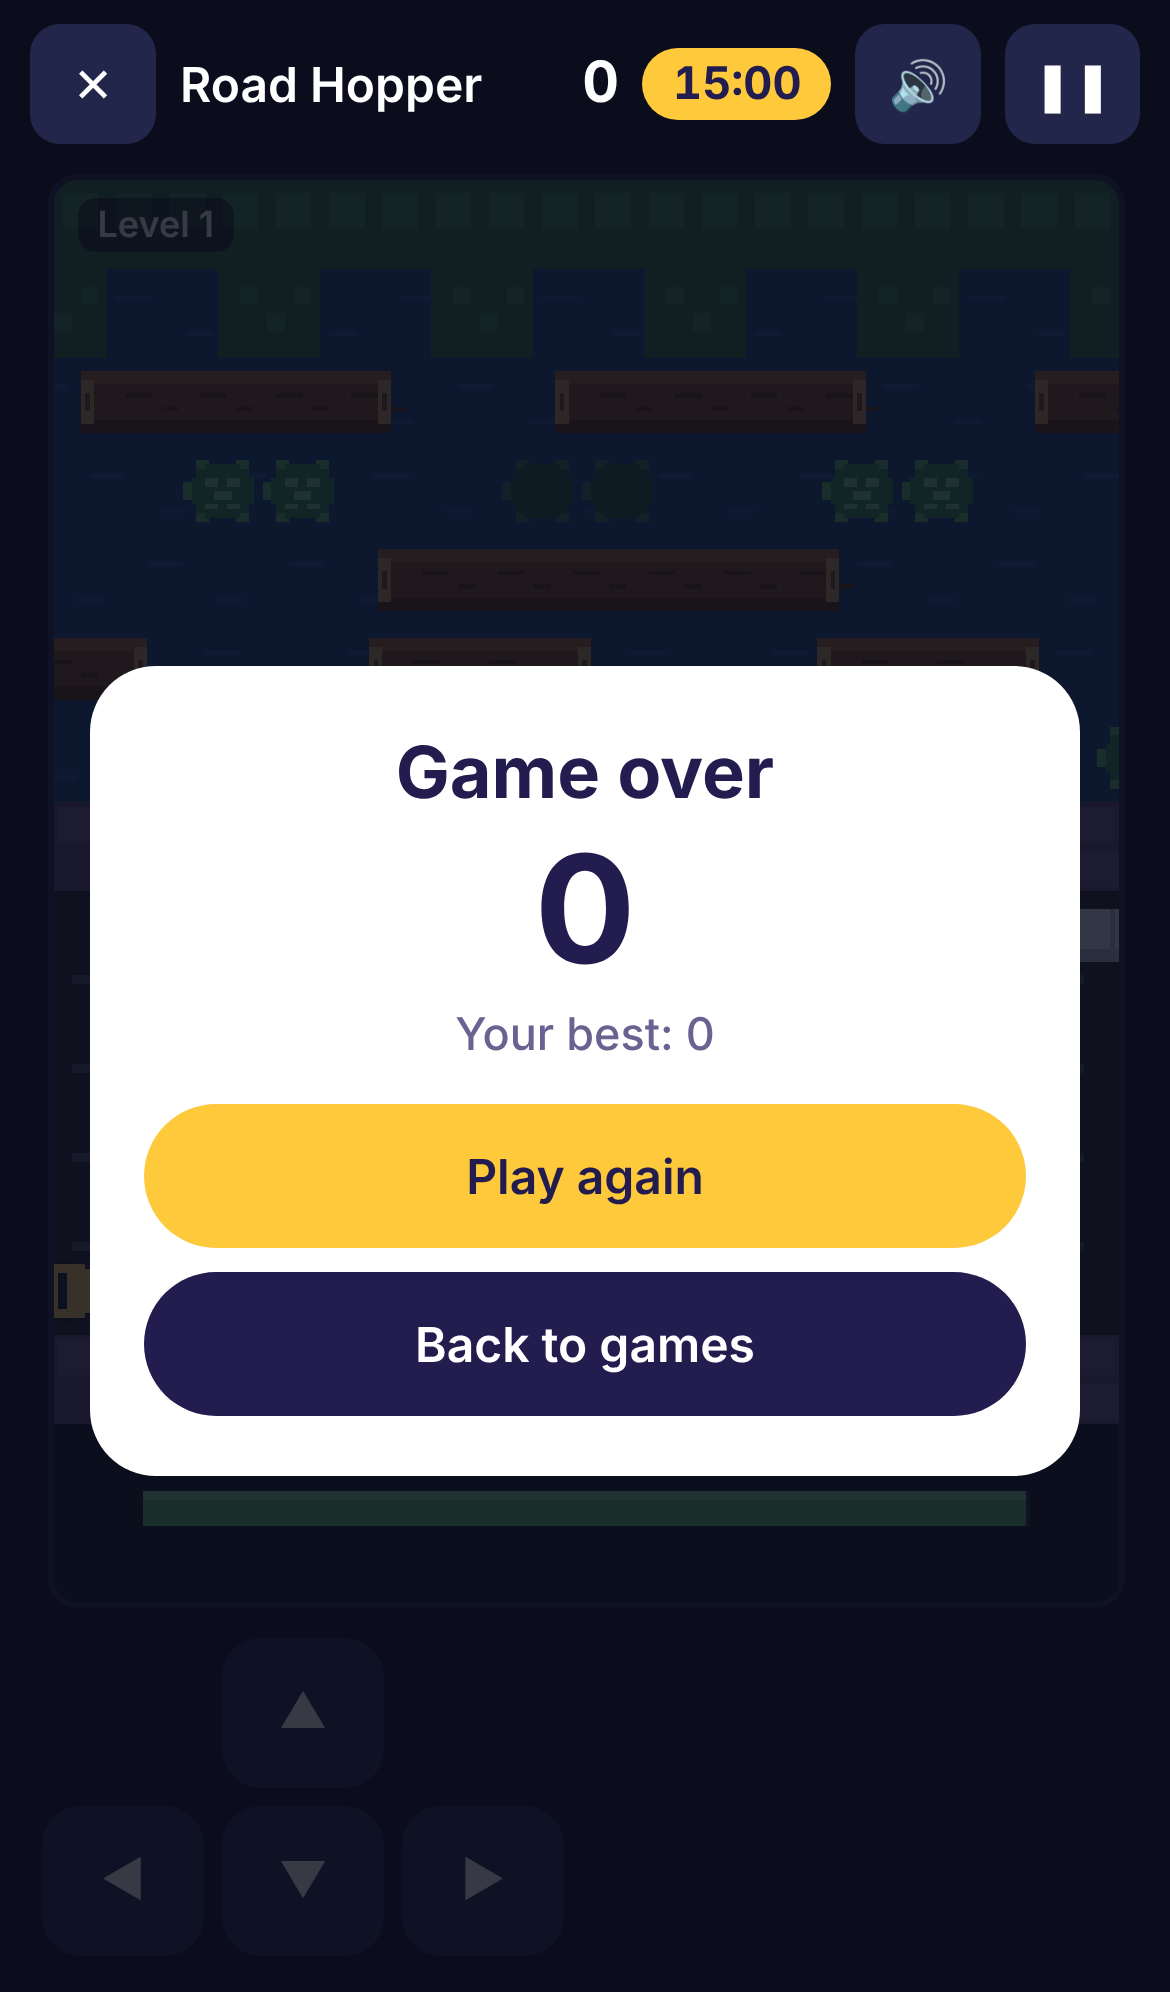
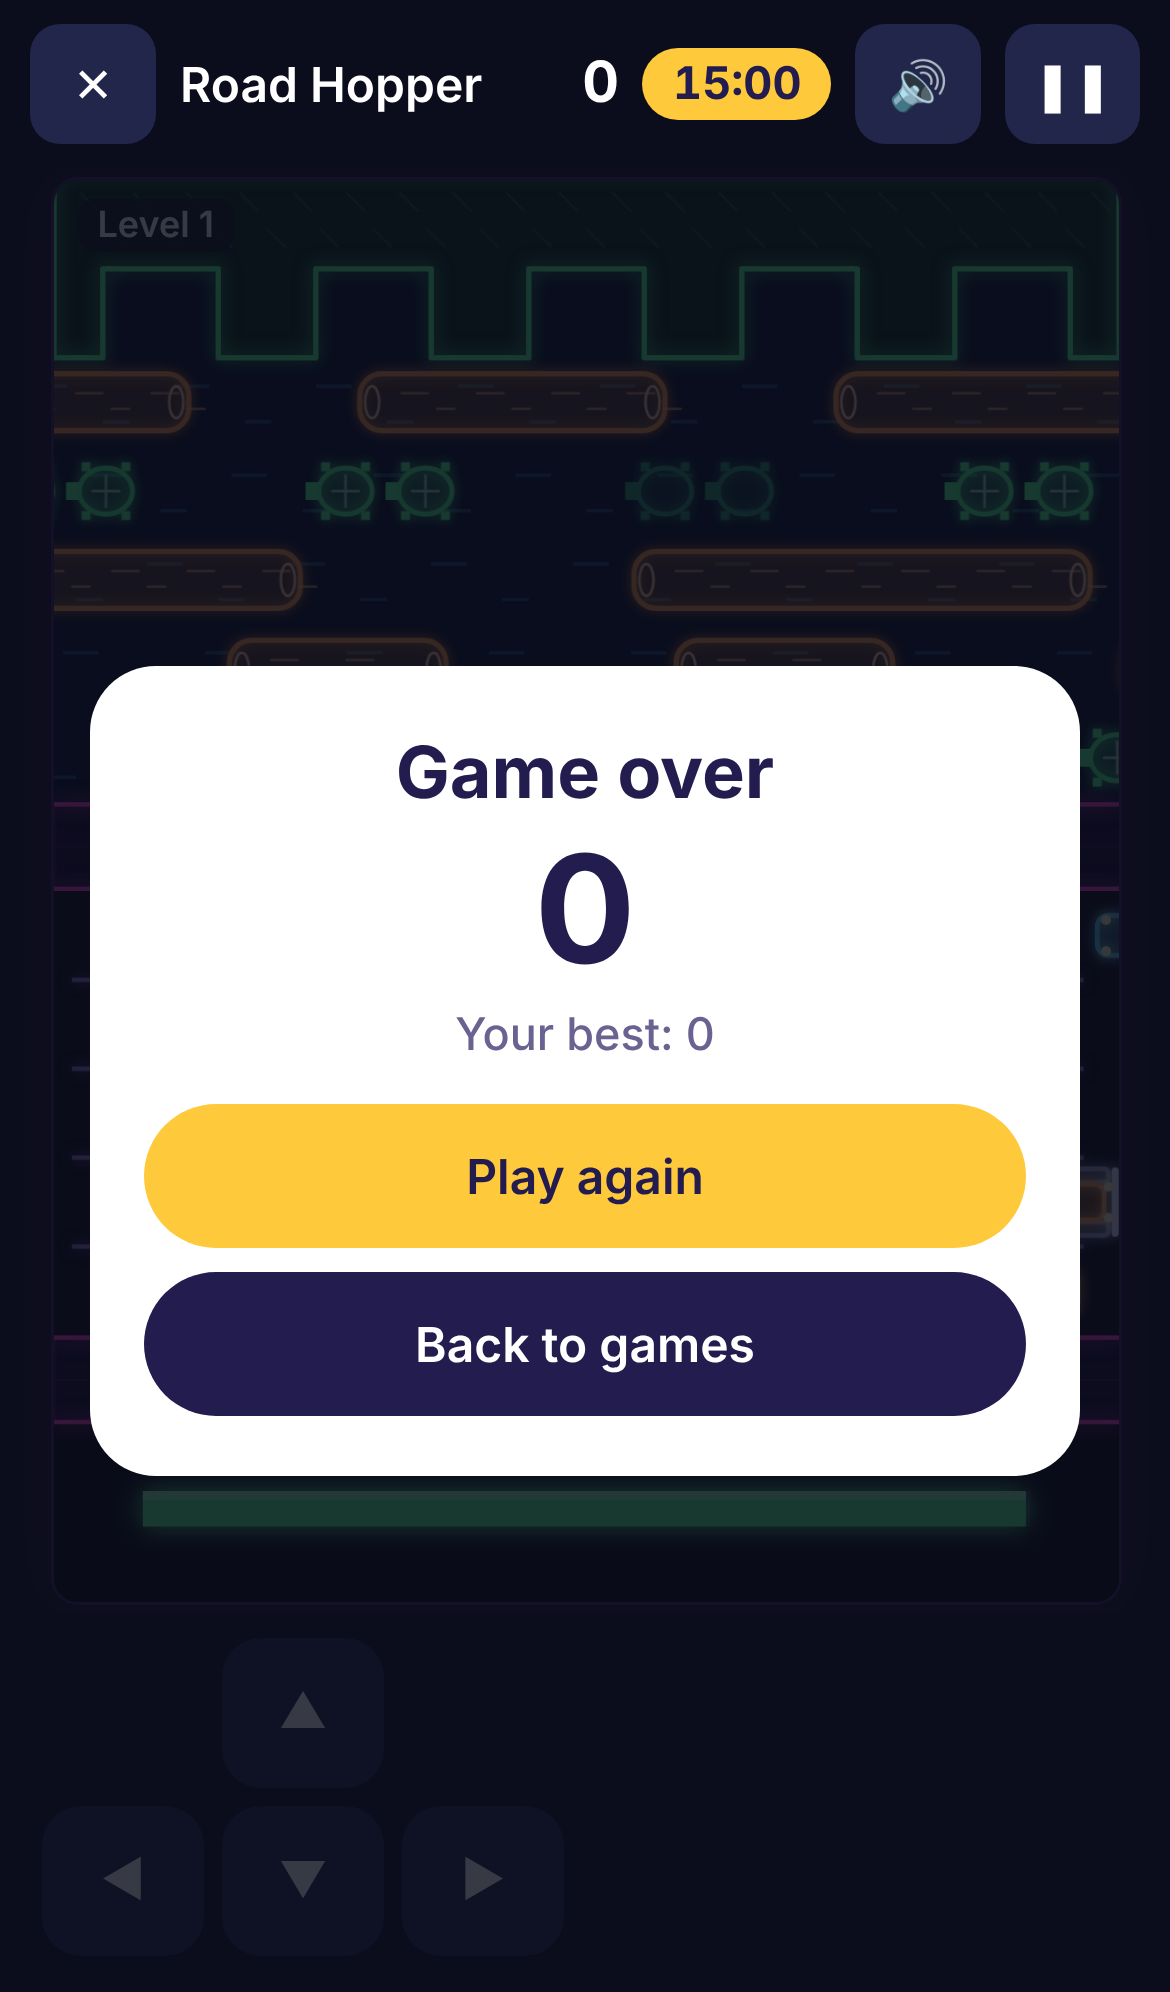
v1.41: parent Stats tab (week, month, all time, 8-week chart, top activities)
Claude-Session: https://claude.ai/code/session_01JoNf9xmUoD18WqnoTrPJoo

diff --git a/index.html b/index.html
@@ -132,6 +132,15 @@ button.row:active{background:var(--press)}
 .stats b{display:block;font-size:28px;font-weight:700;line-height:1.1}
 .stats span{font-size:14px;color:var(--soft)}
 .stats .plus{color:var(--plus)} .stats .minus{color:var(--minus)}
+.wkchart{display:grid;grid-template-columns:repeat(8,minmax(0,1fr));gap:6px;height:120px;margin:4px 0 6px}
+.wkchart .wk{display:flex;flex-direction:column;min-width:0}
+.wkchart .bars{flex:1;display:flex;align-items:flex-end;justify-content:center;gap:2px;border-bottom:1px solid var(--line)}
+.wkchart i,.legend i{display:inline-block;width:42%;max-width:14px;min-height:1px;border-radius:2px 2px 0 0}
+.wkchart .e,.legend .e{background:var(--plus)} .wkchart .l,.legend .l{background:var(--minus)}
+.wkchart span{font-size:11px;color:var(--soft);text-align:center;margin-top:3px;white-space:nowrap}
+.legend i{width:10px;height:10px;border-radius:2px;margin:0 4px 0 10px;vertical-align:-1px}
+.legend i:first-child{margin-left:0}
+.tabs + .stats,.tabs + p + .stats{margin-top:10px}
 .half{display:grid;grid-template-columns:1fr 1fr;gap:10px}
 #pop{position:fixed;inset:0;background:rgba(35,28,79,.62);display:none;align-items:center;justify-content:center;z-index:20;padding:20px;overflow:hidden}
 #pop.open{display:flex}
@@ -331,7 +340,7 @@ const FIREBASE_CONFIG = {
   appId: "1:271302574571:web:3eeb4d2949fb5a4b3819ae"
 };
 
-const VERSION = '1.40';   // bump on every change so Check for update can see it
+const VERSION = '1.41';   // bump on every change so Check for update can see it
 
 const KIDS = { emmie:{name:'Emmie',emoji:'🎨'}, dawson:{name:'Dawson',emoji:'⚾'} };
 const PARENTS = { mom:{name:'Mom',emoji:'👩'}, dad:{name:'Dad',emoji:'👨'} };
@@ -363,6 +372,7 @@ async function firebaseStore(cfg){
     subLog(kid,cb,err){ fs.onSnapshot(fs.query(logCol(kid), fs.orderBy('ts','desc'), fs.limit(300)), s => cb(s.docs.map(d => ({id:d.id, ...d.data()}))), err); },
     subGames(kid,cb){ fs.onSnapshot(fs.query(fs.collection(db,'family','main','games_'+kid), fs.orderBy('ts','desc'), fs.limit(60)), s => cb(s.docs.map(d => ({id:d.id, ...d.data()}))), () => {}); },
     addGame(kid, entry){ return fs.addDoc(fs.collection(db,'family','main','games_'+kid), entry); },
+    async allLog(kid){ const s = await fs.getDocs(fs.query(logCol(kid), fs.orderBy('ts','desc'))); return s.docs.map(d => ({id:d.id, ...d.data()})); },
     seed(obj){ return fs.setDoc(mainRef, obj, {merge:true}); },
     apply({set,addLog,delLog}){
       const b = fs.writeBatch(db);
@@ -388,6 +398,7 @@ function localStore(){
     subLog(kid,cb){ subs[kid].push(cb); cb([...data.logs[kid]].sort((a,b)=>b.ts-a.ts)); },
     subGames(kid,cb){ (subs['g_'+kid] = subs['g_'+kid] || []).push(cb); cb([...data.games[kid]].sort((a,b)=>b.ts-a.ts).slice(0,60)); },
     async addGame(kid, entry){ data.games[kid].push({id:uid(), ...entry}); save(); (subs['g_'+kid]||[]).forEach(f => f([...data.games[kid]].sort((a,b)=>b.ts-a.ts).slice(0,60))); },
+    async allLog(kid){ return [...data.logs[kid]].sort((a,b)=>b.ts-a.ts); },
     async seed(obj){ data.main = Object.assign(data.main||{}, obj); save(); emit(); },
     async apply({set,addLog,delLog}){
       if(set) for(const path in set){
@@ -408,7 +419,7 @@ function localStore(){
 /* ---------- state ---------- */
 let store, main = null, loaded = false, loadError = '';
 const logs = {emmie:[], dawson:[]}, gamesLog = {emmie:[], dawson:[]};
-const ui = {mode:'up', kid:null, ptab:'give', ktab:'prizes', setup:false, games:false, viewAs:null};
+const ui = {srange:'week', mode:'up', kid:null, ptab:'give', ktab:'prizes', setup:false, games:false, viewAs:null};
 const lastBal = {};
 const ls = { get(k){ try{ return localStorage.getItem(k); }catch(e){ return null; } }, set(k,v){ try{ v==null ? localStorage.removeItem(k) : localStorage.setItem(k,v); }catch(e){} } };
 const role = () => ls.get('ep_role');
@@ -947,6 +958,65 @@ function kidView(kid){
     <div class="foot"><button class="link" data-act="switch">Not ${KIDS[kid].name}?</button></div></div>`;
 }
 
+/* ---------- parent stats ----------
+   The live list holds the newest 300 entries; for longer ranges the full history is fetched once and the
+   live list is laid over it, so new and removed entries show right away. */
+const fullLog = {}, fullBusy = {};
+function statRows(kid){
+  const live = logs[kid], full = fullLog[kid];
+  if(!full) return live;
+  const oldest = live.length ? live[live.length-1].ts : Infinity;
+  return live.concat(full.filter(e => e.ts < oldest));
+}
+function needFull(kid){
+  if(fullLog[kid] || fullBusy[kid] || logs[kid].length < 300) return;
+  fullBusy[kid] = true;
+  store.allLog(kid).then(r => { fullLog[kid] = r; render(); }).catch(() => {}).finally(() => { fullBusy[kid] = false; });
+}
+const isCash = e => e.type==='prize' && /^\$\d+ cash-out$/.test(e.label||'');
+function monthStart(off){ const d = new Date(); return new Date(d.getFullYear(), d.getMonth()-off, 1).getTime(); }
+function rangeStats(rows, a, z){
+  const s = {earned:0, lost:0, spent:0, prizes:0, cash:0, cashN:0, bonus:0, gsec:0, up:{}, down:{}, days:new Set(), first:Infinity};
+  for(const e of rows){
+    if(e.ts < a || e.ts >= z) continue;
+    s.first = Math.min(s.first, e.ts);
+    if(e.gsec) s.gsec += e.gsec;
+    if(e.type==='prize'){ if(isCash(e)){ s.cash += +e.label.slice(1).split(' ')[0]; s.cashN++; } else s.prizes++; s.spent -= e.pts; continue; }
+    if(e.type==='bonus') s.bonus += e.pts;
+    if(e.pts > 0){ s.earned += e.pts; s.days.add(dayKey(e.ts)); }
+    else if(e.pts < 0) s.lost -= e.pts;
+    if(e.type==='points' && e.pts){ const m = e.pts>0 ? s.up : s.down, t = m[e.label] = m[e.label] || {label:e.label, emoji:e.emoji, n:0, pts:0}; t.n++; t.pts += e.pts; }
+  }
+  const top = m => Object.values(m).sort((x,y) => Math.abs(y.pts)-Math.abs(x.pts) || y.n-x.n);
+  s.up = top(s.up); s.down = top(s.down);
+  return s;
+}
+function statsView(kid){
+  needFull(kid);
+  const rows = statRows(kid), r = ui.srange, now = Date.now();
+  const [a, z, pa, pz, prevName] = r==='week' ? [weekStart(0), Infinity, weekStart(1), weekStart(0), 'last week']
+    : r==='month' ? [monthStart(0), Infinity, monthStart(1), monthStart(0), 'last month'] : [0, Infinity, 0, 0, ''];
+  const s = rangeStats(rows, a, z), p = r==='all' ? null : rangeStats(rows, pa, pz);
+  const net = s.earned - s.lost, g = main.goals && main.goals[kid] && main.rewards && main.rewards[main.goals[kid]];
+  const days = r==='all' ? (rows.length ? Math.max(1, Math.ceil((now - Math.min(...rows.map(e => e.ts)))/864e5)) : 0) : Math.max(1, Math.ceil((now - a)/864e5));
+  const loading = r==='all' && !fullLog[kid] && logs[kid].length >= 300;
+  /* last 8 weeks, earned vs lost */
+  const wk = []; for(let i=7;i>=0;i--){ const w = rangeStats(rows, weekStart(i), i ? weekStart(i-1) : Infinity); wk.push({e:w.earned, l:w.lost, d:new Date(weekStart(i))}); }
+  const mx = Math.max(1, ...wk.map(w => Math.max(w.e, w.l)));
+  const bars = wk.map((w,i) => `<div class="wk"><div class="bars"><i class="e" style="height:${Math.round(w.e/mx*100)}%"></i><i class="l" style="height:${Math.round(w.l/mx*100)}%"></i></div><span>${i===7 ? 'Now' : (w.d.getMonth()+1)+'/'+w.d.getDate()}</span></div>`).join('');
+  const list = (arr, none) => arr.length ? `<div class="list">${arr.slice(0,5).map(t => `<div class="row"><span class="emo">${esc(t.emoji||'')}</span><div class="grow"><div class="label">${esc(t.label)}</div><div class="sub">${t.n} ${t.n===1?'time':'times'}</div></div><span class="pts ${cls(t.pts)}">${signed(t.pts)}</span></div>`).join('')}</div>` : `<div class="empty">${none}</div>`;
+  const since = r==='week' ? 'Since Sunday' : r==='month' ? 'Since the 1st' : (rows.length ? 'Since '+new Date(Math.min(...rows.map(e => e.ts))).toLocaleDateString([], {month:'short', day:'numeric', year:'numeric'}) : 'No history yet');
+  return `<h2>${KIDS[kid].name}’s stats</h2>
+    ${tabs('srange', [['week','This week'],['month','This month'],['all','All time']])}
+    ${loading ? '<p class="soft">Loading full history…</p>' : ''}
+    <div class="stats"><div><b class="plus">${signed(s.earned)}</b><span>earned</span></div><div><b class="minus">${signed(-s.lost)}</b><span>lost</span></div><div><b class="${net>0?'plus':net<0?'minus':''}">${signed(net)}</b><span>net</span></div></div>
+    <div class="stats"><div><b>${s.spent}</b><span>spent on prizes</span></div><div><b>$${s.cash}</b><span>cashed out</span></div><div><b>${bal(kid)}</b><span>balance now</span></div></div>
+    <p class="soft">${since}. ${s.prizes} ${s.prizes===1?'prize':'prizes'}${s.cashN ? `, ${s.cashN} cash-${s.cashN===1?'out':'outs'}` : ''}. Earned points on ${s.days.size} of ${days} ${days===1?'day':'days'}${s.bonus ? `, ${signed(s.bonus)} from streak bonuses` : ''}${s.gsec>0 ? `, ${fmtGame(s.gsec)} of game time` : ''}.${p ? ` ${prevName[0].toUpperCase()+prevName.slice(1)}: ${signed(p.earned)} earned, ${signed(-p.lost)} lost, ${p.spent} spent.` : ''}${g ? ` Saving for ${esc(g.emoji)} ${esc(g.label)} (${Math.max(available(kid),0)} of ${g.cost}).` : ''}</p>
+    <h2>Last 8 weeks</h2><div class="wkchart" role="img" aria-label="Points earned and lost each week for the last 8 weeks">${bars}</div>
+    <p class="soft legend"><i class="e"></i>Earned <i class="l"></i>Lost</p>
+    <h2>Top ways ${KIDS[kid].name} earned</h2>${list(s.up, 'No points earned in this period.')}
+    <h2>Points lost for</h2>${list(s.down, 'No points taken away in this period.')}`;
+}
 function weekView(kid){
   const w = weekStats(kid,0), l = weekStats(kid,1), g = main.goals && main.goals[kid] && main.rewards && main.rewards[main.goals[kid]];
   return `<h2>${KIDS[kid].name}’s week</h2>
@@ -1014,7 +1084,7 @@ function parentView(){
   let body = '';
   if(ui.ptab==='give') body = activities(sel);
   else if(ui.ptab==='history') body = `<h2>${who}’s history</h2>${historyList(sel,true)}`;
-  else body = weekView(sel);
+  else body = statsView(sel);
   const back = `<div class="top"><button class="btn ghost small" data-act="kid" data-id="">‹ All kids</button>${both ? `<span class="soft">Signed in as ${PARENTS[role()].name}</span>` : `<button class="btn ghost small" data-act="viewas" data-id="${sel}">View as ${KIDS[sel].name}</button>`}</div>`;
   if(both) return `${banner()}${back}<div class="bothhead"><h1>Both kids</h1><p class="soft">Points you give or take away here go to Emmie and Dawson.</p></div>${body}`;
   return `${banner()}${back}${ticket(sel, {notes:[`Game time: ${gameSecs(sel) ? fmtGame(gameSecs(sel)) : 'none'}`]})}
@@ -1022,7 +1092,7 @@ function parentView(){
       <div class="acts"><button class="btn ghost" data-act="pdecline" data-id="${q.id}">Decline</button><button class="btn" data-act="papprove" data-id="${q.id}">Approve</button></div></div>`).join('')}
     ${pendingFor(sel).map(q => `<div class="ask"><div class="label">${who} wants: ${esc(q.label)}</div><div>${q.cost} points, asked ${when(q.ts).toLowerCase()}. ${who} has ${bal(sel)}.</div>
       <div class="acts"><button class="btn ghost" data-act="decline" data-id="${q.id}">Decline</button><button class="btn" data-act="approve" data-id="${q.id}">Approve</button></div></div>`).join('')}
-    ${tabs('ptab', [['give','Points'],['history','History'],['week','This week']])}<div>${body}</div>`;
+    ${tabs('ptab', [['give','Points'],['history','History'],['week','Stats']])}<div>${body}</div>`;
 }
 
 function render(){
